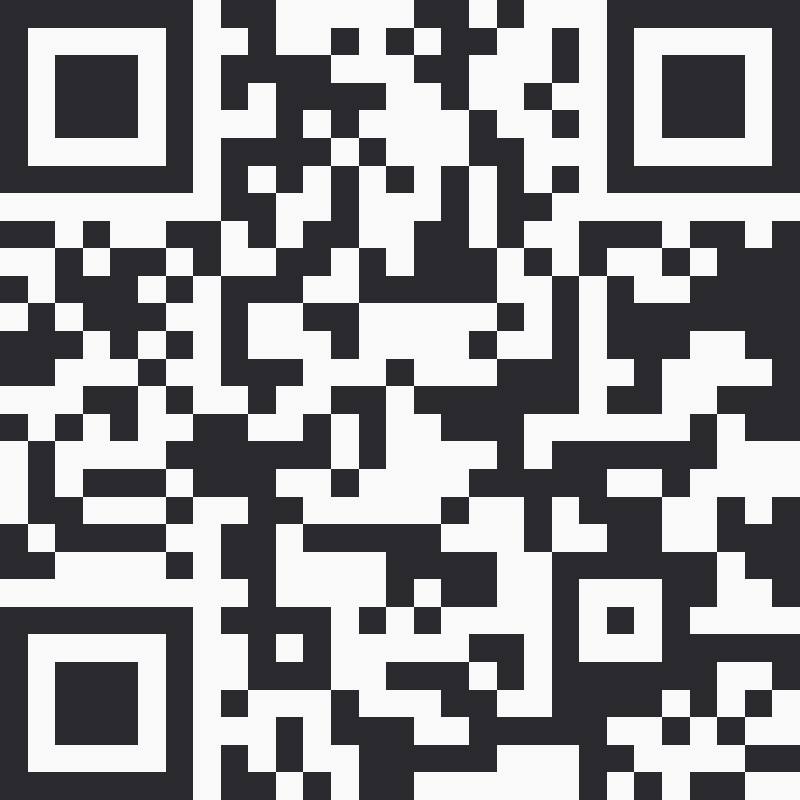
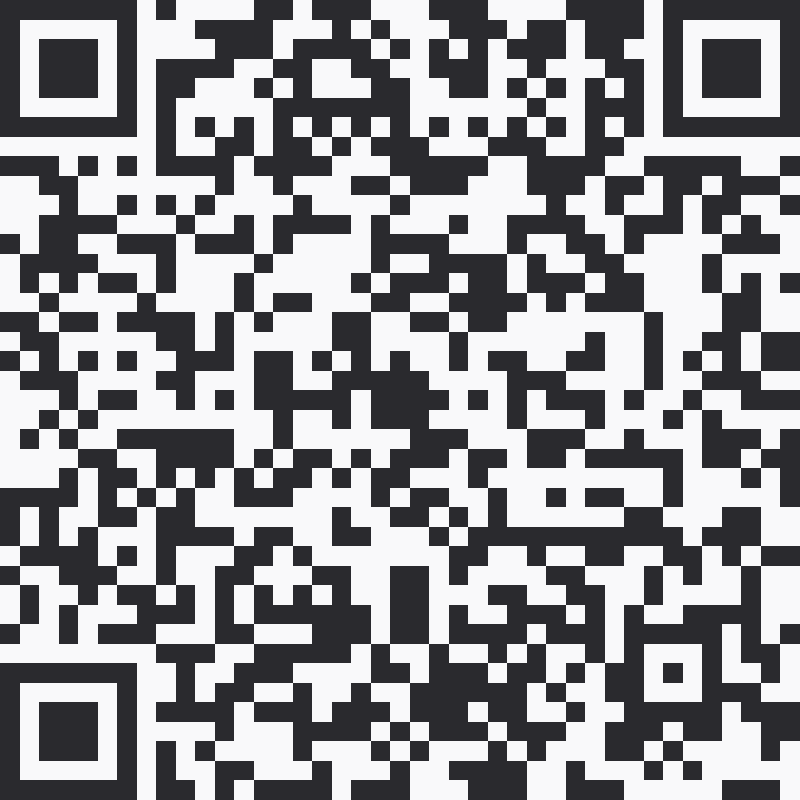
updated

diff --git a/index.html b/index.html
@@ -1,2 +1,2 @@
 <!doctype html><html><head><meta name=generator content="Hugo 0.165.0"><head><meta charset=utf8><title>みやっこ音楽回廊</title><meta name=robots content="index, follow, max-image-preview:large, max-snippet:-1, max-video-preview:-1"><meta name=viewport content="width=device-width,initial-scale=1"><link rel=alternate type=application/rss+xml href=https://kerohotep.github.io/miyakko/index.xml title=みやっこ音楽回廊><link rel=stylesheet href=/miyakko/style/css/pico.min.css><link rel=stylesheet href=/miyakko/style/css/pico.color.min.css><link rel=stylesheet href=/miyakko/style/css/site.css><meta name=description content="直近のイベント 2026年9月20日にイベント「蓄音機で聞くSPレコード音楽会」を開催します。
-ナビゲーターは川村輝夫さん。彼のコレクションから、貴重なV-Disc (戦 …"><meta name=language content="ja"><meta itemprop=image content="https://kerohotep.github.io/miyakko/favicon.svg"><link rel=icon href=/miyakko/favicon.ico sizes=any><link rel=icon href=/miyakko/favicon.svg type=image/svg+xml><meta name=author content="みやっこ音楽回廊"><link rel=me type=text/html href><link rel=canonical href=/miyakko itemprop=url><meta name=copyright content="Copyright © 2026 by みやっこ音楽回廊. All Rights Reserved."><script type=application/ld+json>{"@context":"http://schema.org","@type":"WebSite","url":"/miyakko","name":"みやっこ音楽回廊","author":{"@type":"Person","name":"みやっこ音楽回廊"},"description":""}</script></head></head><body><div id=container><header><div id=title><img src="/miyakko/media/image/girl.png" alt="女の子のアイコン"><h1>みやっこ音楽回廊</h1><menu><details><summary>≡</summary><div><ul><li><a href=/miyakko/>トップページ</a></li><li><a href=/miyakko/about/>活動の軌跡</a></li><li><a href=/miyakko/message/>メッセージ</a></li><li><a href=https://docs.google.com/forms/d/e/1FAIpQLSfwlFdaX7JanXfLiaXZFk4CAyaAUfy5q45qia9F9CmpbuFNAg/viewform>9/20イベント申し込みフォーム</a></li></ul></div></details></menu></div><div id=top-about><p>昭和に花開いた音楽や大衆文化を通じて、地域と世代を繋いでいく。みやっこ音楽回廊は、そんな想いから2023年に西宮で立ち上げた小さな地域グループです。2025年からは西宮のコレクターが遺した貴重なSPレコードの保存活用にも取り組み、定期的に蓄音機によるレコードコンサートも開いています。<br>現在の活動メンバーは10人ほどですが、興味ある方はどなたでもウェルカムです！</p><p>代表　加美智一</p><p><a href=/miyakko/about/>みやっこ音楽回廊活動の軌跡</a></div></header><main><article><h2 id=news-topics>NEWS TOPICS</h2><p><img src=/miyakko/media/image/event-202609.png alt=イベントを告知するポスター></p><p>2026年9月20日にイベント「蓄音機で聞くSPレコード音楽会」を開催します。</p><p>ナビゲーターは川村輝夫さん。彼のコレクションから、貴重なV-Disc (戦時中の米兵向け慰問レコード) も再生します。</p><p>開催場所はみんなげんき夙川公園ホール (<a href=https://www.minnagenki-gym.work/>みんなげんきジム</a>に併設, <a href="https://www.google.com/maps/search/?api=1&amp;query=%E3%81%BF%E3%82%93%E3%81%AA%E3%81%92%E3%82%93%E3%81%8D%E3%82%B8%E3%83%A0&amp;query_place_id=ChIJqeiBYvDyAGARcUkpNMLVpfM">GoogleMap</a>)。13:30開場、<strong>14:00開演</strong>です。</p><p>当日券は1500円、前売り券 (予約)の場合は1000円をいただきます。</p><p>予約は下記のフォームから受け付けています。定員は40名です。</p><p><a href=https://docs.google.com/forms/d/e/1FAIpQLSfwlFdaX7JanXfLiaXZFk4CAyaAUfy5q45qia9F9CmpbuFNAg/viewform>みやっこ音楽回廊★散開イベント 蓄音機で聞くSPレコード音楽会「プレイバック！ジャズの黄金期と進駐軍の時代」参加申込書</a></p><h2 id=中西大正コレクション>中西大正コレクション</h2><p>2025年1⽉29⽇、この⽇は亡き父親に呼び寄せられたような気がします。</p><p>2014年から3年入院を経て2017年86歳で死去、母親は 2022 年特養入所、兄が⼀⼈住んでいたのですが、<br>この⽇は、父親と長年「懐かしの歌声を聴く会」などで懇意だった N さんの紹介で「宮っこ⾳楽回廊」のメンバーが、父親の SP レコードコレクションを⾒せてほしいという連絡で1年ぶりに⾏きました。</p><p>玄関に入った途端、かび臭い異臭、1 階奥の和室が水浸し！！なんじゃーこりゃー！！状態。せっかく来ていただいたメンバーもさぞ驚かれたことと思います。</p><p>この⽇からレコードレスキューの怒涛の⽇々が始まりました。和室にあった蓄⾳機、プレーヤー、PC 機器、書類から仏壇、遺影までがダメになりました。</p><p>不幸中の幸いで、SPレコードは表と裏の物置に入っていたので何とか水没を免れました。</p><p>このレコードは、1995年の阪神淡路⼤震災でも、地下室に保管されていたためほぼ無事だったのです。何と、二度もの修羅場を抜けてきました。</p><p>また、単なるコレクターではなく、⻄宮今津にあったタイヘイ・ニットーレコード会社などの歴史的価値、背景の探求や、自分だけの楽しみでなく「懐かしの歌声を聴く会（注）」や、市内の高齢者デイサービスを訪問「レコード鑑賞会」ボランテイアもしていました。</p><p><img src=/miyakko/media/image/image021.jpg alt=懐かしの歌声を聴く会における父></p><p>体調が悪くなり入院中でも⼿帳に訪問予定が書かれていました。父親の「SP レコード」収集へのきっかけは、196０年頃に風邪で会社を休んで深夜放送 KBS で懐かしのメロデイを聴いたことでした。何と私も、⼤学受験時KBSの深夜放送で「高石ともや＆ザ・ナターシャーセブン」の⾳楽が⼤好きになりました。</p><p>しかし、このままでは廃棄せざるを得ず、SP レコードを次世代につないでいく使命を感じています。</p><p>ここに、二度もの修羅場を抜けてきた父親の SP レコードを「中⻄⼤正コレクション」として具体的なアクション（引き取り、紹介、活⽤など）をお願いしたいと思っています。</p><p>（中⻄⼤正次⼥ 福原圭⼦）</p><p>（注）1999 年５⽉１３⽇「懐かしの歌声を聴く会」での神戸新聞はじめ各メデイアから取材を受け, 私も2022年11⽉に神戸新聞の取材を申し込み、「⻄宮なつメロ倶楽部（N さん引継ぎ）」を取り上げていただき、<br>2025年8⽉にも「<a href=https://www.kobe-np.co.jp/news/hanshin/202508/0019295870.shtml>遺族と⾳楽関係者地域活性化に活⽤、ＳＰレコード 5000 枚整理中</a>」という記事を掲載していただきました</p><h3 id=sp-レコード引き取り無償提供を希望の場合>SP レコード引き取り（無償提供）を希望の場合</h3><p>戦前から戦後の流⾏歌を中⼼に、コロンビア・ビクター・キング・テイチク・タイヘイ、ニットー・マーキュリーはじめ⼤⼿からマイナーまで約6,000 枚の SP レコードをレーベル毎に分類。段ボール箱に平積み収納し（１箱約 50 枚）、⻄宮市内に分散保管しています。</p><p>コレクション詳細を記載した直筆のノートはありますが、段ボール収納のレコードとの照合はできていません。そのため勝⼿ながら原則として段ボール単位での寄贈（できれば 100 枚単位）を考えています。事前に連絡頂ければ保存状態の確認等にも対応いたします。</p><p><img src=/miyakko/media/image/image014.jpg alt=SPレコードが入る複数の段ボール></p><p>※重く割れやすいため⾞輌での引き取りを推奨しますが、遠⽅の場合は宅急便での発送も可能です。 （運賃実費のみご負担下さい）</p><h3 id=メンバーの思い>メンバーの思い</h3><p>SPレコードについて、宮っこ音楽回廊のメンバーが綴った思いが掲載されています。</p><p><a href=/miyakko/message/>メッセージ</a></p><h3 id=協力ご支援について>協⼒・ご⽀援について</h3><p>SP レコードに興味ある⽅（個⼈・法⼈を問わず）のご紹介や、地域で SP レコードの鑑賞会を開きたい、広報 PR など活動をご⽀援頂ける⽅も⼤歓迎です。</p><p>募集期間 2026 年 8 ⽉〜12 ⽉</p><p>お問い合わせ</p><p>加美智⼀（みやっこ⾳楽回廊・⽉とモネ主宰） kamino731[at]icloud.com<br>福原圭⼦（中⻄⼤正 次⼥） ahec4001[at]bca.bai.ne.jp</p><p>※連絡の際は「[at]」の部分を「@」に変換してください</p><p><img src=/miyakko/media/image/image022.jpg alt=SPレコードが入る複数の段ボール></p></artile></main><footer><p id=copyright>Copyright © 2026 by みやっこ音楽回廊. All Rights Reserved.</p></footer></div></body></html>
+ナビゲーターは川村輝夫さん。彼のコレクションから、貴重なV-Disc (戦 …"><meta name=language content="ja"><meta itemprop=image content="https://kerohotep.github.io/miyakko/favicon.svg"><link rel=icon href=/miyakko/favicon.ico sizes=any><link rel=icon href=/miyakko/favicon.svg type=image/svg+xml><meta name=author content="みやっこ音楽回廊"><link rel=me type=text/html href><link rel=canonical href=/miyakko itemprop=url><meta name=copyright content="Copyright © 2026 by みやっこ音楽回廊. All Rights Reserved."><script type=application/ld+json>{"@context":"http://schema.org","@type":"WebSite","url":"/miyakko","name":"みやっこ音楽回廊","author":{"@type":"Person","name":"みやっこ音楽回廊"},"description":""}</script></head></head><body><div id=container><header><div id=title><img src="/miyakko/media/image/girl.png" alt="女の子のアイコン"><h1>みやっこ音楽回廊</h1><menu><details><summary>≡</summary><div><ul><li><a href=/miyakko/>トップページ</a></li><li><a href=/miyakko/about/>活動の軌跡</a></li><li><a href=/miyakko/message/>メッセージ</a></li><li><a href=https://docs.google.com/forms/d/e/1FAIpQLSfwlFdaX7JanXfLiaXZFk4CAyaAUfy5q45qia9F9CmpbuFNAg/viewform>9/20イベント申し込みフォーム</a></li></ul></div></details></menu></div><div id=top-about><p>昭和に花開いた音楽や大衆文化を通じて、地域と世代を繋いでいく。みやっこ音楽回廊は、そんな想いから2023年に西宮で立ち上げた小さな地域グループです。2025年からは西宮のコレクターが遺した貴重なSPレコードの保存活用にも取り組み、定期的に蓄音機によるレコードコンサートも開いています。<br>現在の活動メンバーは10人ほどですが、興味ある方はどなたでもウェルカムです！</p><p>代表　加美智一</p><p><a href=/miyakko/about/>みやっこ音楽回廊活動の軌跡</a></div></header><main><article><h2 id=news-topics>NEWS TOPICS</h2><p><img src=/miyakko/media/image/event-202609.png alt=イベントを告知するポスター></p><p>2026年9月20日にイベント「蓄音機で聞くSPレコード音楽会」を開催します。</p><p>ナビゲーターは川村輝夫さん。彼のコレクションから、貴重なV-Disc (戦時中の米兵向け慰問レコード) も再生します。</p><p>開催場所はみんなげんき夙川公園ホール (<a href=https://www.minnagenki-gym.work/>みんなげんきジム</a>に併設, <a href="https://www.google.com/maps/search/?api=1&amp;query=%E3%81%BF%E3%82%93%E3%81%AA%E3%81%92%E3%82%93%E3%81%8D%E3%82%B8%E3%83%A0&amp;query_place_id=ChIJqeiBYvDyAGARcUkpNMLVpfM">GoogleMap</a>)。13:30開場、<strong>14:00開演</strong>です。</p><p>当日券は1500円、前売り券 (予約)の場合は1000円をいただきます。</p><p>予約は下記のフォームから受け付けています。定員は40名です。</p><p><a href=https://docs.google.com/forms/d/e/1FAIpQLSfwlFdaX7JanXfLiaXZFk4CAyaAUfy5q45qia9F9CmpbuFNAg/viewform>みやっこ音楽回廊★散開イベント 蓄音機で聞くSPレコード音楽会「プレイバック！ジャズの黄金期と進駐軍の時代」参加申込書</a></p><p>下の画像は、申し込みフォームへ遷移するQR Codeです</p><img src=/miyakko/media/image/qr.png alt="申し込みフォームへのQR Code"><h2 id=中西大正コレクション>中西大正コレクション</h2><p>2025年1⽉29⽇、この⽇は亡き父親に呼び寄せられたような気がします。</p><p>2014年から3年入院を経て2017年86歳で死去、母親は 2022 年特養入所、兄が⼀⼈住んでいたのですが、<br>この⽇は、父親と長年「懐かしの歌声を聴く会」などで懇意だった N さんの紹介で「宮っこ⾳楽回廊」のメンバーが、父親の SP レコードコレクションを⾒せてほしいという連絡で1年ぶりに⾏きました。</p><p>玄関に入った途端、かび臭い異臭、1 階奥の和室が水浸し！！なんじゃーこりゃー！！状態。せっかく来ていただいたメンバーもさぞ驚かれたことと思います。</p><p>この⽇からレコードレスキューの怒涛の⽇々が始まりました。和室にあった蓄⾳機、プレーヤー、PC 機器、書類から仏壇、遺影までがダメになりました。</p><p>不幸中の幸いで、SPレコードは表と裏の物置に入っていたので何とか水没を免れました。</p><p>このレコードは、1995年の阪神淡路⼤震災でも、地下室に保管されていたためほぼ無事だったのです。何と、二度もの修羅場を抜けてきました。</p><p>また、単なるコレクターではなく、⻄宮今津にあったタイヘイ・ニットーレコード会社などの歴史的価値、背景の探求や、自分だけの楽しみでなく「懐かしの歌声を聴く会（注）」や、市内の高齢者デイサービスを訪問「レコード鑑賞会」ボランテイアもしていました。</p><p><img src=/miyakko/media/image/image021.jpg alt=懐かしの歌声を聴く会における父></p><p>体調が悪くなり入院中でも⼿帳に訪問予定が書かれていました。父親の「SP レコード」収集へのきっかけは、196０年頃に風邪で会社を休んで深夜放送 KBS で懐かしのメロデイを聴いたことでした。何と私も、⼤学受験時KBSの深夜放送で「高石ともや＆ザ・ナターシャーセブン」の⾳楽が⼤好きになりました。</p><p>しかし、このままでは廃棄せざるを得ず、SP レコードを次世代につないでいく使命を感じています。</p><p>ここに、二度もの修羅場を抜けてきた父親の SP レコードを「中⻄⼤正コレクション」として具体的なアクション（引き取り、紹介、活⽤など）をお願いしたいと思っています。</p><p>（中⻄⼤正次⼥ 福原圭⼦）</p><p>（注）1999 年５⽉１３⽇「懐かしの歌声を聴く会」での神戸新聞はじめ各メデイアから取材を受け, 私も2022年11⽉に神戸新聞の取材を申し込み、「⻄宮なつメロ倶楽部（N さん引継ぎ）」を取り上げていただき、<br>2025年8⽉にも「<a href=https://www.kobe-np.co.jp/news/hanshin/202508/0019295870.shtml>遺族と⾳楽関係者地域活性化に活⽤、ＳＰレコード 5000 枚整理中</a>」という記事を掲載していただきました</p><h3 id=sp-レコード引き取り無償提供を希望の場合>SP レコード引き取り（無償提供）を希望の場合</h3><p>戦前から戦後の流⾏歌を中⼼に、コロンビア・ビクター・キング・テイチク・タイヘイ、ニットー・マーキュリーはじめ⼤⼿からマイナーまで約6,000 枚の SP レコードをレーベル毎に分類。段ボール箱に平積み収納し（１箱約 50 枚）、⻄宮市内に分散保管しています。</p><p>コレクション詳細を記載した直筆のノートはありますが、段ボール収納のレコードとの照合はできていません。そのため勝⼿ながら原則として段ボール単位での寄贈（できれば 100 枚単位）を考えています。事前に連絡頂ければ保存状態の確認等にも対応いたします。</p><p><img src=/miyakko/media/image/image014.jpg alt=SPレコードが入る複数の段ボール></p><p>※重く割れやすいため⾞輌での引き取りを推奨しますが、遠⽅の場合は宅急便での発送も可能です。 （運賃実費のみご負担下さい）</p><h3 id=メンバーの思い>メンバーの思い</h3><p>SPレコードについて、宮っこ音楽回廊のメンバーが綴った思いが掲載されています。</p><p><a href=/miyakko/message/>メッセージ</a></p><h3 id=協力ご支援について>協⼒・ご⽀援について</h3><p>SP レコードに興味ある⽅（個⼈・法⼈を問わず）のご紹介や、地域で SP レコードの鑑賞会を開きたい、広報 PR など活動をご⽀援頂ける⽅も⼤歓迎です。</p><p>募集期間 2026 年 8 ⽉〜12 ⽉</p><p>お問い合わせ</p><p>加美智⼀（みやっこ⾳楽回廊・⽉とモネ主宰） kamino731[at]icloud.com<p><img src=/miyakko/media/image/image022.jpg alt=SPレコードが入る複数の段ボール></p></artile></main><footer><p id=copyright>Copyright © 2026 by みやっこ音楽回廊. All Rights Reserved.</p></footer></div></body></html>
